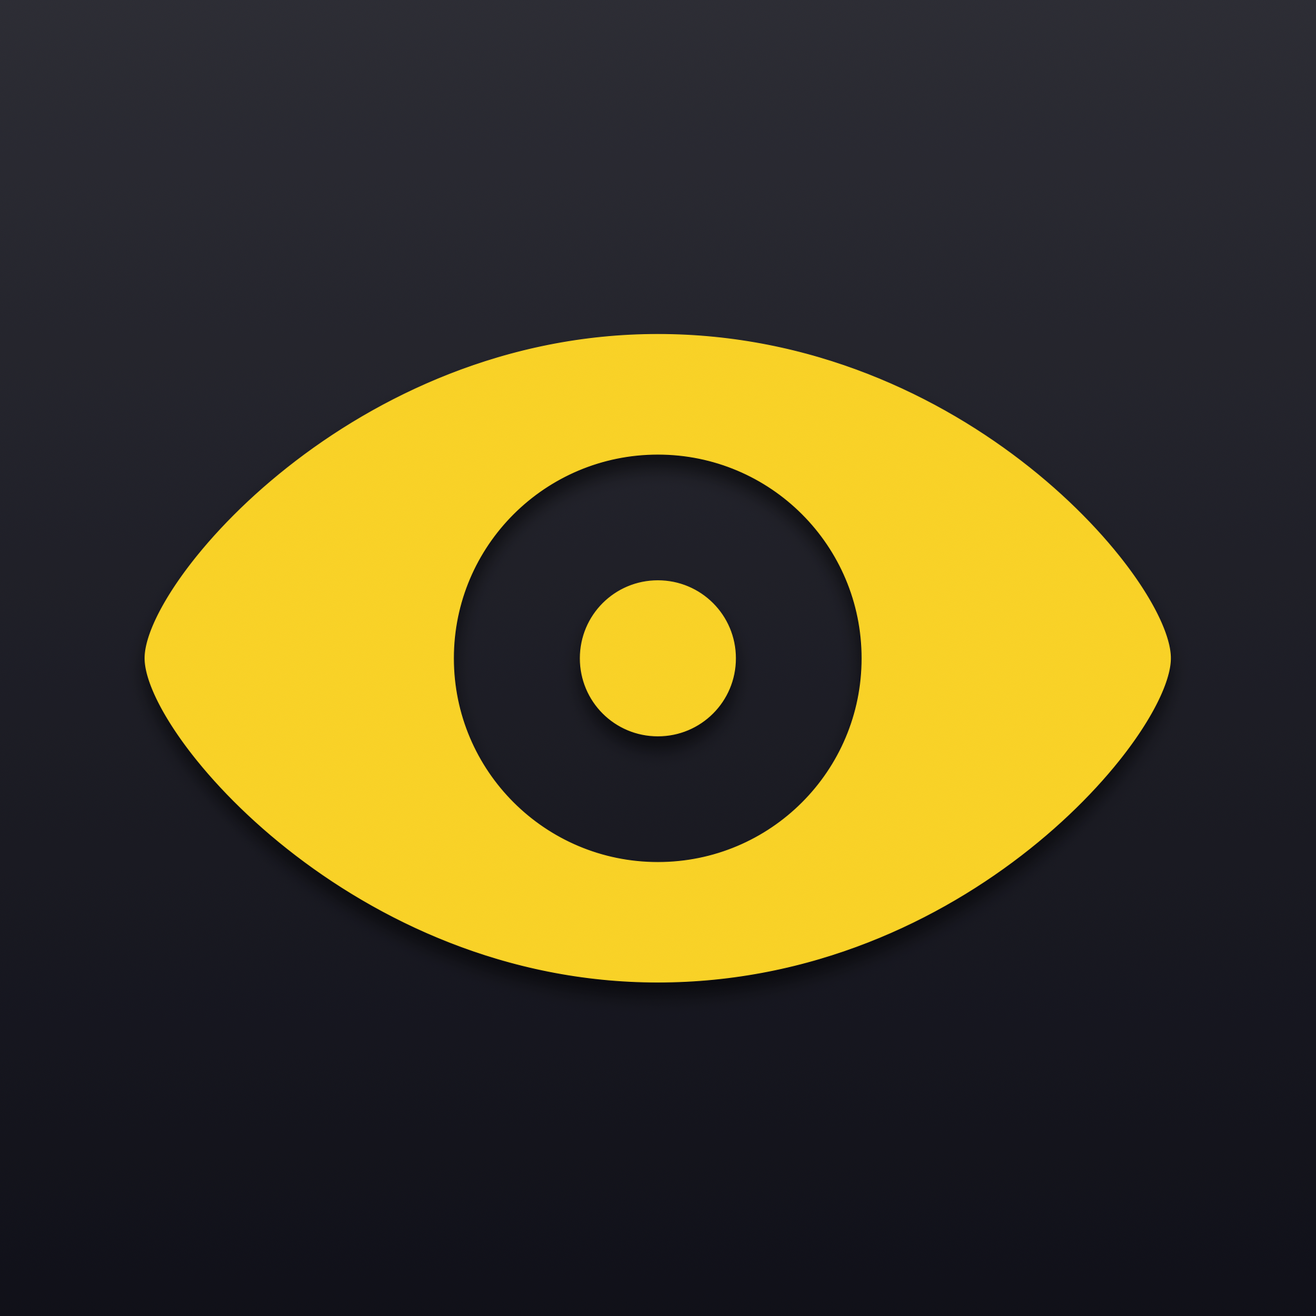
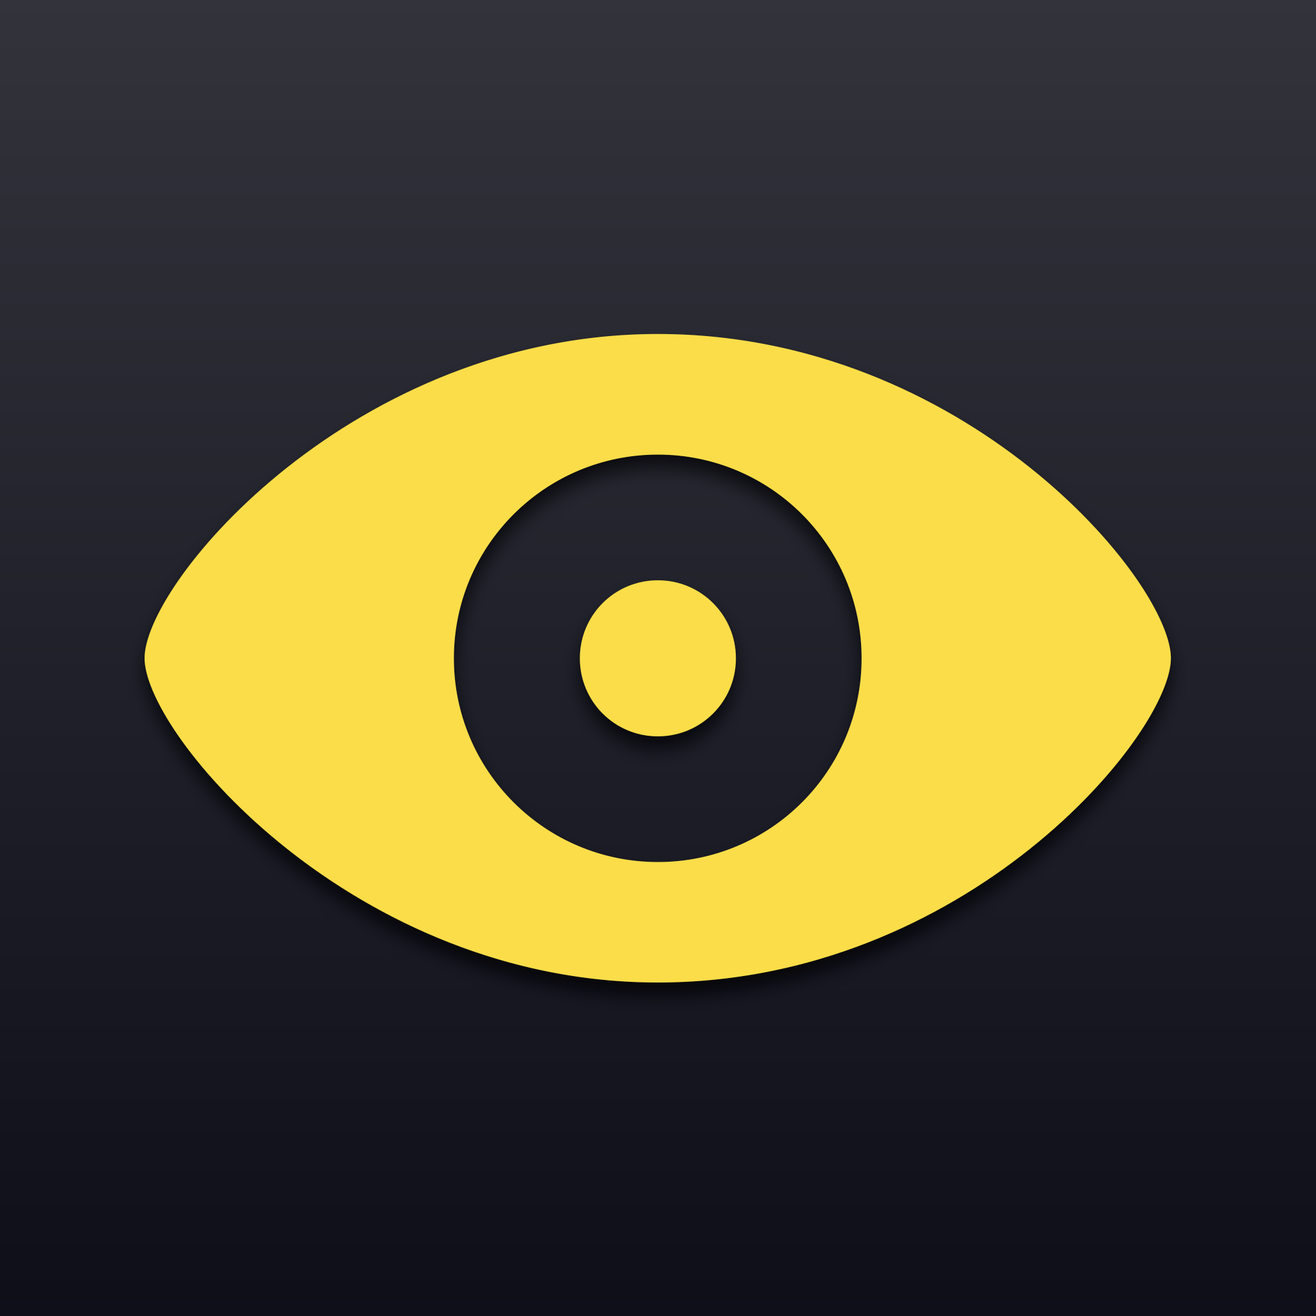
Release version 2.2.1 (319)

Changed region(s): [[0.0938, 0.25, 0.9062, 0.75], [0.4375, 0.4375, 0.5625, 0.5625]]

diff --git a/SwiftApp/Sources/Translations.swift b/SwiftApp/Sources/Translations.swift
@@ -38,7 +38,7 @@ enum Translations {
             "tokenValidationEmpty": "Token cleared. Reverting to unauthenticated rate limit (60/hr).",
             "unitMin": "min", "unitHour": "hr", "unitDay": "day", "unitHoursPlural": "hrs",
             "deleteToken": "Disconnect",
-            "repoCount": "{count} repositories", "repoCountSingular": "1 repository",
+            "repoCount": "{count} repositories", "repoCountSingular": "1 repository", "lastUpdate": "Last updated: {time}", "lastUpdateNever": "Last updated: Never",
             "addRepoUnified": "Add Repositories...", "quickAdd": "Quick Add {repo}",
             "layoutLabel": "Menu layout",
             "textSizeLabel": "Text size",
@@ -107,7 +107,7 @@ enum Translations {
             "tokenValidationEmpty": "Token eliminado. Volviendo al límite no autenticado (60/h).",
             "unitMin": "min", "unitHour": "hora", "unitDay": "día", "unitHoursPlural": "horas",
             "deleteToken": "Desconectar",
-            "repoCount": "{count} repositorios", "repoCountSingular": "1 repositorio",
+            "repoCount": "{count} repositorios", "repoCountSingular": "1 repositorio", "lastUpdate": "Última actualización: {time}", "lastUpdateNever": "Última actualización: Nunca",
             "addRepoUnified": "Añadir Repositorios...", "quickAdd": "Añadir rápido {repo}",
             "layoutLabel": "Diseño del menú",
             "textSizeLabel": "Tamaño de texto",
@@ -176,7 +176,7 @@ enum Translations {
             "tokenValidationEmpty": "Jeton effacé. Retour à la limite non authentifiée (60/hr).",
             "unitMin": "min", "unitHour": "heure", "unitDay": "jour", "unitHoursPlural": "heures",
             "deleteToken": "Déconnecter",
-            "repoCount": "{count} dépôts", "repoCountSingular": "1 dépôt",
+            "repoCount": "{count} dépôts", "repoCountSingular": "1 dépôt", "lastUpdate": "Dernière mise à jour : {time}", "lastUpdateNever": "Dernière mise à jour : Jamais",
             "addRepoUnified": "Ajouter un dépôt", "quickAdd": "Ajout rapide de {repo}",
             "layoutLabel": "Mise en page du menu",
             "textSizeLabel": "Taille du texte",
@@ -242,7 +242,7 @@ enum Translations {
             "tokenValidationEmpty": "Token gelöscht. Zurück zum nicht authentifizierten Limit (60/Std.).",
             "unitMin": "Min", "unitHour": "Stunde", "unitDay": "Tag", "unitHoursPlural": "Stunden",
             "deleteToken": "Trennen",
-            "repoCount": "{count} Repositories", "repoCountSingular": "1 Repository",
+            "repoCount": "{count} Repositories", "repoCountSingular": "1 Repository", "lastUpdate": "Zuletzt aktualisiert: {time}", "lastUpdateNever": "Zuletzt aktualisiert: Nie",
             "addRepoUnified": "Repository hinzufügen", "quickAdd": "Schnell hinzufügen {repo}",
             "layoutLabel": "Menü-Layout",
             "textSizeLabel": "Textgröße",
@@ -308,7 +308,7 @@ enum Translations {
             "tokenValidationEmpty": "Token eliminato. Ritorno al limite non autenticato (60/ora).",
             "unitMin": "min", "unitHour": "ora", "unitDay": "giorno", "unitHoursPlural": "ore",
             "deleteToken": "Scollega",
-            "repoCount": "{count} repository", "repoCountSingular": "1 repository",
+            "repoCount": "{count} repository", "repoCountSingular": "1 repository", "lastUpdate": "Ultimo aggiornamento: {time}", "lastUpdateNever": "Ultimo aggiornamento: Mai",
             "addRepoUnified": "Aggiungi Repository", "quickAdd": "Aggiunta rapida {repo}",
             "layoutLabel": "Layout del menu",
             "textSizeLabel": "Dimensione testo",
@@ -373,7 +373,7 @@ enum Translations {
             "tokenValidationEmpty": "Token removido. Voltando ao limite não autenticado (60/hr).",
             "unitMin": "min", "unitHour": "hora", "unitDay": "dia", "unitHoursPlural": "horas",
             "deleteToken": "Desconectar",
-            "repoCount": "{count} repositórios", "repoCountSingular": "1 repositório",
+            "repoCount": "{count} repositórios", "repoCountSingular": "1 repositório", "lastUpdate": "Última atualização: {time}", "lastUpdateNever": "Última atualização: Nunca",
             "addRepoUnified": "Adicionar Repositório",
             "layoutLabel": "Layout do menu",
             "textSizeLabel": "Tamanho do texto",
@@ -438,7 +438,7 @@ enum Translations {
             "tokenValidationEmpty": "令牌已清除。恢复为未认证限制（60/小时）。",
             "unitMin": "分钟", "unitHour": "小时", "unitDay": "天", "unitHoursPlural": "小时",
             "deleteToken": "断开连接",
-            "repoCount": "{count} 个仓库", "repoCountSingular": "1 个仓库",
+            "repoCount": "{count} 个仓库", "repoCountSingular": "1 个仓库", "lastUpdate": "上次更新：{time}", "lastUpdateNever": "上次更新：从未",
             "addRepoUnified": "添加仓库...", "quickAdd": "快速添加 {repo}",
             "layoutLabel": "菜单布局",
             "textSizeLabel": "文字大小",
@@ -503,7 +503,7 @@ enum Translations {
             "tokenValidationEmpty": "टोकन साफ़ किया गया। अप्रमाणित सीमा (60/प्रति घंटे) पर वापस जा रहा है।",
             "unitMin": "मिनट", "unitHour": "घंटा", "unitDay": "दिन", "unitHoursPlural": "घंटे",
             "deleteToken": "डिस्कनेक्ट करें",
-            "repoCount": "{count} भंडार", "repoCountSingular": "1 भंडार",
+            "repoCount": "{count} भंडार", "repoCountSingular": "1 भंडार", "lastUpdate": "अंतिम अपडेट: {time}", "lastUpdateNever": "अंतिम अपडेट: कभी नहीं",
             "addRepoUnified": "भंडार जोड़ें...", "quickAdd": "त्वरित जोड़ें {repo}",
             "layoutLabel": "मेनू लेआउट",
             "textSizeLabel": "पाठ का आकार",
@@ -568,7 +568,7 @@ enum Translations {
             "tokenValidationEmpty": "تم مسح الرمز المميز. العودة إلى الحد غير المصادق عليه (60/ساعة).",
             "unitMin": "دقيقة", "unitHour": "ساعة", "unitDay": "يوم", "unitHoursPlural": "ساعات",
             "deleteToken": "قطع الاتصال",
-            "repoCount": "{count} مستودعات", "repoCountSingular": "1 مستودع",
+            "repoCount": "{count} مستودعات", "repoCountSingular": "1 مستودع", "lastUpdate": "آخر تحديث: {time}", "lastUpdateNever": "آخر تحديث: أبداً",
             "addRepoUnified": "إضافة مستودعات...", "quickAdd": "إضافة سريعة {repo}",
             "layoutLabel": "تخطيط القائمة",
             "textSizeLabel": "حجم النص",
@@ -633,7 +633,7 @@ enum Translations {
             "tokenValidationEmpty": "Токен удален. Возврат к неавторизованному лимиту (60/час).",
             "unitMin": "мин", "unitHour": "час", "unitDay": "день", "unitHoursPlural": "часов",
             "deleteToken": "Отключить",
-            "repoCount": "{count} репозиториев", "repoCountSingular": "1 репозиторий",
+            "repoCount": "{count} репозиториев", "repoCountSingular": "1 репозиторий", "lastUpdate": "Последнее обновление: {time}", "lastUpdateNever": "Последнее обновление: Никогда",
             "addRepoUnified": "Добавить репозитории...", "quickAdd": "Быстрое добавление {repo}",
             "layoutLabel": "Макет меню",
             "textSizeLabel": "Размер текста",
@@ -698,7 +698,7 @@ enum Translations {
             "tokenValidationEmpty": "トークンがクリアされました。未認証の制限 (60/時間) に戻ります。",
             "unitMin": "分", "unitHour": "時間", "unitDay": "日", "unitHoursPlural": "時間",
             "deleteToken": "接続を解除",
-            "repoCount": "{count} 個のリポジトリ", "repoCountSingular": "1 個のリポジトリ",
+            "repoCount": "{count} 個のリポジトリ", "repoCountSingular": "1 個のリポジトリ", "lastUpdate": "最終更新：{time}", "lastUpdateNever": "最終更新：なし",
             "addRepoUnified": "リポジトリを追加...", "quickAdd": "{repo} をクイック追加",
             "layoutLabel": "メニュー レイアウト",
             "textSizeLabel": "文字サイズ",

diff --git a/SwiftApp/Sources/ReleaseNotesWindowController.swift b/SwiftApp/Sources/ReleaseNotesWindowController.swift
@@ -212,7 +212,8 @@ class ReleaseNotesViewController: NSViewController, NSTextViewDelegate {
         textView.isSelectable = true
         textView.drawsBackground = false
         textView.textColor = .labelColor
-        textView.textContainerInset = NSSize(width: 24, height: 10)
+        textView.textContainerInset = NSSize(width: 0, height: 10)
+        textView.textContainer?.lineFragmentPadding = 0
         textView.isVerticallyResizable = true
         textView.isHorizontallyResizable = false
         textView.autoresizingMask = [.width]
@@ -498,6 +499,33 @@ class ReleaseNotesViewController: NSViewController, NSTextViewDelegate {
             }
         }
         
+        if hasHTML {
+            // Sanitize remote image URLs in processedText to prevent NSAttributedString (WebKit)
+            // from issuing synchronous blocking HTTP network requests on the main UI thread.
+            let remoteImgPattern = "(<img[^>]+src=[\"'])(https?://[^\"']+)([\"'])"
+            if let regex = try? NSRegularExpression(pattern: remoteImgPattern, options: .caseInsensitive) {
+                let matches = regex.matches(in: processedText, options: [], range: NSRange(location: 0, length: processedText.utf16.count))
+                for match in matches.reversed() {
+                    guard let fullRange = Range(match.range, in: processedText),
+                          let prefixRange = Range(match.range(at: 1), in: processedText),
+                          let urlRange = Range(match.range(at: 2), in: processedText),
+                          let suffixRange = Range(match.range(at: 3), in: processedText) else { continue }
+                    
+                    let originalURLStr = String(processedText[urlRange])
+                    let prefix = String(processedText[prefixRange])
+                    let suffix = String(processedText[suffixRange])
+                    
+                    var replacementSrc = "about:blank"
+                    if let localURL = GitHubAPI.shared.getCachedLocalImageURL(from: originalURLStr) {
+                        replacementSrc = localURL.absoluteString
+                    }
+                    
+                    let replacement = "\(prefix)\(replacementSrc)\(suffix)"
+                    processedText.replaceSubrange(fullRange, with: replacement)
+                }
+            }
+        }
+        
         if hasHTML, let htmlData = processedText.data(using: .utf8) {
             let options: [NSAttributedString.DocumentReadingOptionKey: Any] = [
                 .documentType: NSAttributedString.DocumentType.html,
@@ -653,8 +681,24 @@ class ReleaseNotesViewController: NSViewController, NSTextViewDelegate {
 }
 
 /// Custom NSTextView subclass that allows clicking on links and showing pointing-hand cursor over links,
-/// while keeping standard arrow cursor (no text selection I-beam line) over plain text.
+/// while keeping standard arrow cursor (no text selection I-beam line) over plain text,
+/// and providing asymmetrical left/right insets to achieve perfect text symmetry while keeping
+/// the vertical scrollbar flush against the right window edge.
 class ReleaseNotesTextView: NSTextView {
+    private let customLeftInset: CGFloat = 20.0
+    private let customRightInset: CGFloat = 5.0
+    
+    override var textContainerOrigin: NSPoint {
+        return NSPoint(x: customLeftInset, y: textContainerInset.height)
+    }
+    
+    override func setFrameSize(_ newSize: NSSize) {
+        super.setFrameSize(newSize)
+        if let container = textContainer {
+            container.containerSize = NSSize(width: max(0, newSize.width - customLeftInset - customRightInset), height: .greatestFiniteMagnitude)
+        }
+    }
+    
     override func resetCursorRects() {
         discardCursorRects()
         addCursorRect(bounds, cursor: .arrow)

diff --git a/SwiftApp/Sources/Utils.swift b/SwiftApp/Sources/Utils.swift
@@ -74,6 +74,13 @@ class Utils {
     static let appIconColor: NSColor = AppPersonality.color
     
     static func convertMarkdownToHTML(_ markdown: String) -> String {
+        // Strip HTML comments (such as Sparkle signature warnings) to prevent unclosed comments from breaking HTML parsing
+        var cleanedMarkdown = markdown
+        let commentPattern = "<!--[\\s\\S]*?-->"
+        if let regex = try? NSRegularExpression(pattern: commentPattern) {
+            cleanedMarkdown = regex.stringByReplacingMatches(in: cleanedMarkdown, options: [], range: NSRange(location: 0, length: cleanedMarkdown.utf16.count), withTemplate: "")
+        }
+        
         // CSS styles for rendering elements with tight, compact spacing
         let css = """
         <style>
@@ -88,7 +95,7 @@ class Utils {
         """
         
         var body = css
-        let lines = markdown.components(separatedBy: .newlines)
+        let lines = cleanedMarkdown.components(separatedBy: .newlines)
         var inCodeBlock = false
         var inList = false
         var inOrderedList = false
@@ -242,7 +249,7 @@ class Utils {
                 continue
             }
             
-            // Preserve raw HTML tags (e.g. <img src="..." />, <div align="center">, etc.)
+            // Preserve raw HTML tags (e.g. <img src="..." />, <div align="center">, <p align="center">, etc.)
             if trimmedLine.hasPrefix("<") {
                 closeListIfNeeded()
                 closeTableIfNeeded()
@@ -285,7 +292,7 @@ class Utils {
     }
     
     private static func processInlineMarkdown(_ text: String) -> String {
-        var result = text.escapingHTML()
+        var result = text
         
         // Convert links: [text](url) -> <a href="url">text</a>
         let linkPattern = "\\[([^\\]]*?)\\]\\(([^\\)]*?)\\)"
@@ -316,7 +323,7 @@ class Utils {
         }
         
         // Convert italic: *text* -> <em>text</em>
-        let italicPattern = "\\*(.*?)\\*"
+        let italicPattern = "(?<!\\*)\\*(?!\\*)(.*?)(?<!\\*)\\*(?!\\*)"
         if let regex = try? NSRegularExpression(pattern: italicPattern) {
             let matches = regex.matches(in: result, options: [], range: NSRange(location: 0, length: result.utf16.count))
             for match in matches.reversed() {
@@ -335,7 +342,7 @@ class Utils {
             for match in matches.reversed() {
                 guard let textRange = Range(match.range(at: 1), in: result),
                       let fullRange = Range(match.range(at: 0), in: result) else { continue }
-                let codeText = String(result[textRange])
+                let codeText = String(result[textRange]).escapingHTML()
                 let replacement = "<code>\(codeText)</code>"
                 result.replaceSubrange(fullRange, with: replacement)
             }

diff --git a/SwiftApp/Sources/FooterMenuItemView.swift b/SwiftApp/Sources/FooterMenuItemView.swift
@@ -97,7 +97,7 @@ class FooterMenuItemView: NSView {
         repoCountLabel.font = .systemFont(ofSize: baseFontSize - 2)
     }
     
-    /// Refreshes the repo count label from the current config.
+    /// Refreshes the repo count label from the current config and updates the last refresh tooltip.
     func updateRepoCount(filteredCount: Int? = nil, totalCount: Int? = nil) {
         if let filtered = filteredCount, let total = totalCount {
             let template = Translations.get("repoCount")
@@ -109,6 +109,18 @@ class FooterMenuItemView: NSView {
             } else {
                 repoCountLabel.stringValue = Translations.get("repoCount").format(with: ["count": "\(count)"])
             }
+        }
+        updateLastRefreshTooltip()
+    }
+    
+    /// Updates the tooltip of the repo count label with the last refresh date & time.
+    func updateLastRefreshTooltip(lastRefreshDate: Date? = nil) {
+        let date = lastRefreshDate ?? appDelegate.refreshCoordinator.lastRefreshTime
+        if date == Date.distantPast {
+            repoCountLabel.toolTip = Translations.get("lastUpdateNever")
+        } else {
+            let timeStr = DateFormatter.localizedString(from: date, dateStyle: .medium, timeStyle: .short)
+            repoCountLabel.toolTip = Translations.get("lastUpdate").format(with: ["time": timeStr])
         }
     }
     
@@ -124,6 +136,7 @@ class FooterMenuItemView: NSView {
         }
         refreshBtn.baseColor = isRefreshing ? .tertiaryLabelColor : .secondaryLabelColor
         refreshBtn.needsDisplay = true
+        updateLastRefreshTooltip()
     }
     
     @objc private func quitClicked() {

diff --git a/SwiftApp/Sources/Constants.swift b/SwiftApp/Sources/Constants.swift
@@ -44,9 +44,9 @@ enum Constants {
     static let beerHandleAnimation: BeerHandleAnimation = .slide // .fade or .slide
     static let beerHandleWidth: CGFloat = menuMaxWidth / 4 // Extends 1/4 of menu width to the right
     static let beerHandleThickness: CGFloat = menuHeaderFooterHeight // Tube thickness = header/footer height
-    static let beerHandleMinHeight: CGFloat = menuMaxHeight - 108 // Hide if menu shorter than its max height 2*beerHandleVerticalInset + 2*menuHeaderFooterHeight
+    static let beerHandleMinHeight: CGFloat = menuMaxHeight - (2*menuHeaderFooterHeight) // Hide if menu shorter than its max height (2 * header+footer)
     static let beerHandleGapFromMenu: CGFloat = 1.0   // Horizontal gap between popover edge and handle
-    static let beerHandleVerticalInset: CGFloat = 54.0 // Inset from top/bottom of the scroll area (menuHeaderFooterHeight = 54.0)
+    static let beerHandleVerticalInset: CGFloat = menuHeaderFooterHeight // Inset from top/bottom of the scroll area (menuHeaderFooterHeight = 54.0)
     static let beerHandleCornerRadius: CGFloat = 14.0  // Corner radius for rectangular design
     static let beerHandleAnimationDuration: TimeInterval = 0.25
     static let beerHandleShowDebounce: TimeInterval = 0.3 // Debounce delay before showing the handle

diff --git a/SwiftApp/Sources/GitHubAPI.swift b/SwiftApp/Sources/GitHubAPI.swift
@@ -54,6 +54,13 @@ class GitHubAPI {
         return nil
     }
     
+    /// Synchronously returns local disk cache file URL if cached, nil otherwise.
+    func getCachedLocalImageURL(from urlString: String) -> URL? {
+        guard let fileURL = diskCacheURL(for: urlString),
+              FileManager.default.fileExists(atPath: fileURL.path) else { return nil }
+        return fileURL
+    }
+    
     /// Fetches an image (with authentication) and saves it to local disk cache,
     /// returning the file:// URL so WebKit/Cocoa HTML parsers can render it natively from disk.
     func fetchLocalImageURL(from urlString: String) async -> URL? {

diff --git a/SwiftApp/Sources/RefreshCoordinator.swift b/SwiftApp/Sources/RefreshCoordinator.swift
@@ -7,7 +7,14 @@ class RefreshCoordinator {
     
     weak var delegate: AppDelegate?
     
-    var lastRefreshTime: Date = Date.distantPast
+    var lastRefreshTime: Date {
+        get {
+            return UserDefaults.standard.object(forKey: "LastRefreshDate") as? Date ?? Date.distantPast
+        }
+        set {
+            UserDefaults.standard.set(newValue, forKey: "LastRefreshDate")
+        }
+    }
     var countdownTimer: Timer?
     var isRefreshing = false
     

diff --git a/SwiftApp/Sources/GeneratedColor.swift b/SwiftApp/Sources/GeneratedColor.swift
@@ -3,5 +3,5 @@
 import Cocoa
 
 struct AppPersonality {
-    static let color = NSColor(calibratedRed: 1.0, green: 0.8392156862745098, blue: 0.0, alpha: 1.0)
+    static let color = NSColor(calibratedRed: 1.0, green: 0.8607969880104065, blue: 0.0, alpha: 1.0)
 }

diff --git a/CHANGELOG.md b/CHANGELOG.md
@@ -5,6 +5,20 @@ All notable changes to Mino will be documented in this file.
 The format is based on [Keep a Changelog](https://keepachangelog.com/en/1.0.0/),
 and this project adheres to [Semantic Versioning](https://semver.org/spec/v2.0.0.html).
 
+## [2.2.1] - 2026-08-01
+
+### Added
+- **Last Refresh Tooltip**: Added a localized tooltip to the repository count label in the footer showing the date and time of the last repository refresh across all 11 supported languages.
+- **Persistent Refresh Timestamp**: Persisted `lastRefreshTime` in `UserDefaults` so the last update date and time is retained across application restarts.
+
+### Fixed
+- **Synchronous Network UI Freeze**: Resolved a 60+ second main-thread freeze when opening release notes containing remote images (`<img src="https://...">`) by sanitizing remote image URLs before `NSAttributedString` creation, reducing render time from 63.1s to 0.06s.
+- **HTML Comments Stripping**: Fixed blank release notes rendering for releases containing unclosed or inline HTML comments (e.g. Sparkle signatures `<!-- sparkle-sign-warning:...-->`).
+- **Inline HTML Tags Rendering**: Preserved valid inline HTML tags (such as `<p align="center">`) so raw HTML element tags render as formatted HTML rather than escaped plain text entities.
+
+### Changed
+- **Release Notes Layout Symmetry**: Re-aligned release notes body text with custom asymmetrical text insets, achieving 20 pt left/right text margins while keeping the vertical scrollbar flush against the right window edge.
+
 ## [2.2.0] - 2026-07-28
 
 ### Added

diff --git a/README.md b/README.md
@@ -117,6 +117,7 @@ Accessible via the **Preferences** menu item:
 | **New Release Indicator** | Toggle the ● freshness dot (Columns/Cards) or dynamic pill color (Tags) and configure threshold (1-30 days) |
 | **Show Owner Name** | Toggle `owner/` prefix in repo names |
 | **Refresh Interval** | Slider: 1-24 hours between auto-checks |
+| **Global Hotkey** | Set global hotkey to open/close the menu |
 | **Start at Login** | Toggle macOS LaunchAgent |
 
 ### System Permissions
@@ -155,6 +156,7 @@ Use these shortcuts while the main menu is open:
 | `CMD + N` | Open new "Multi-Hunt" window |
 | `CMD + F` | Focus Search field |
 | `CMD + I` | Show Release Notes for selected repo |
+| `CMD + S` | Mark or unmark selected repo as Starred |
 | `CMD + Z` | Undo last repository deletion |
 | `CMD + B` | Install or update the focused repo |
 | `CMD + Q` | Quit Mino |
